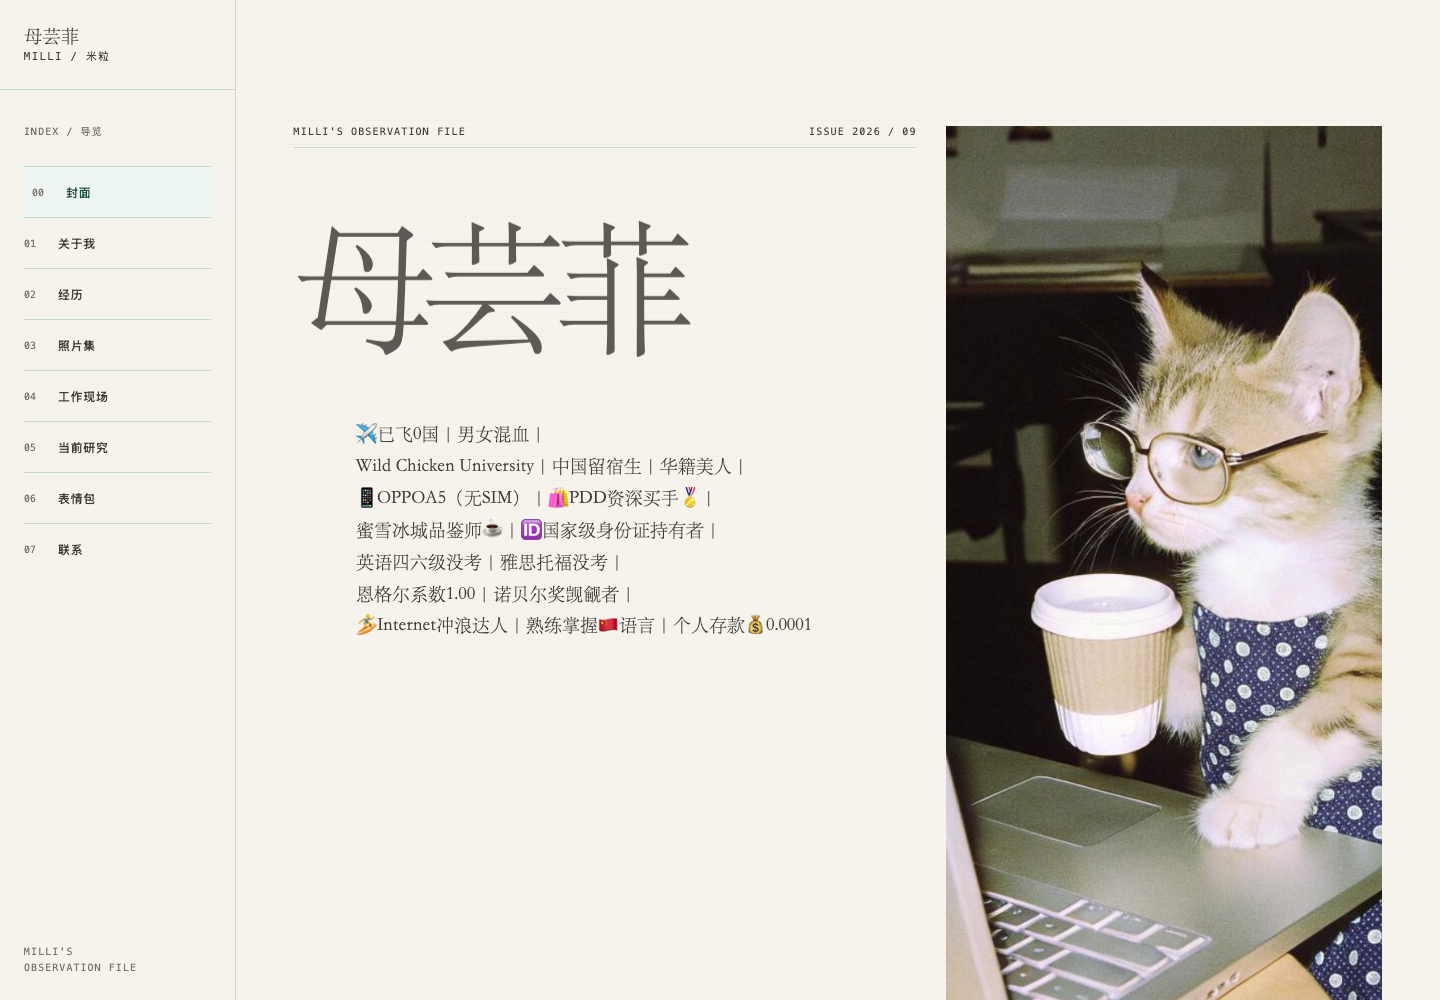
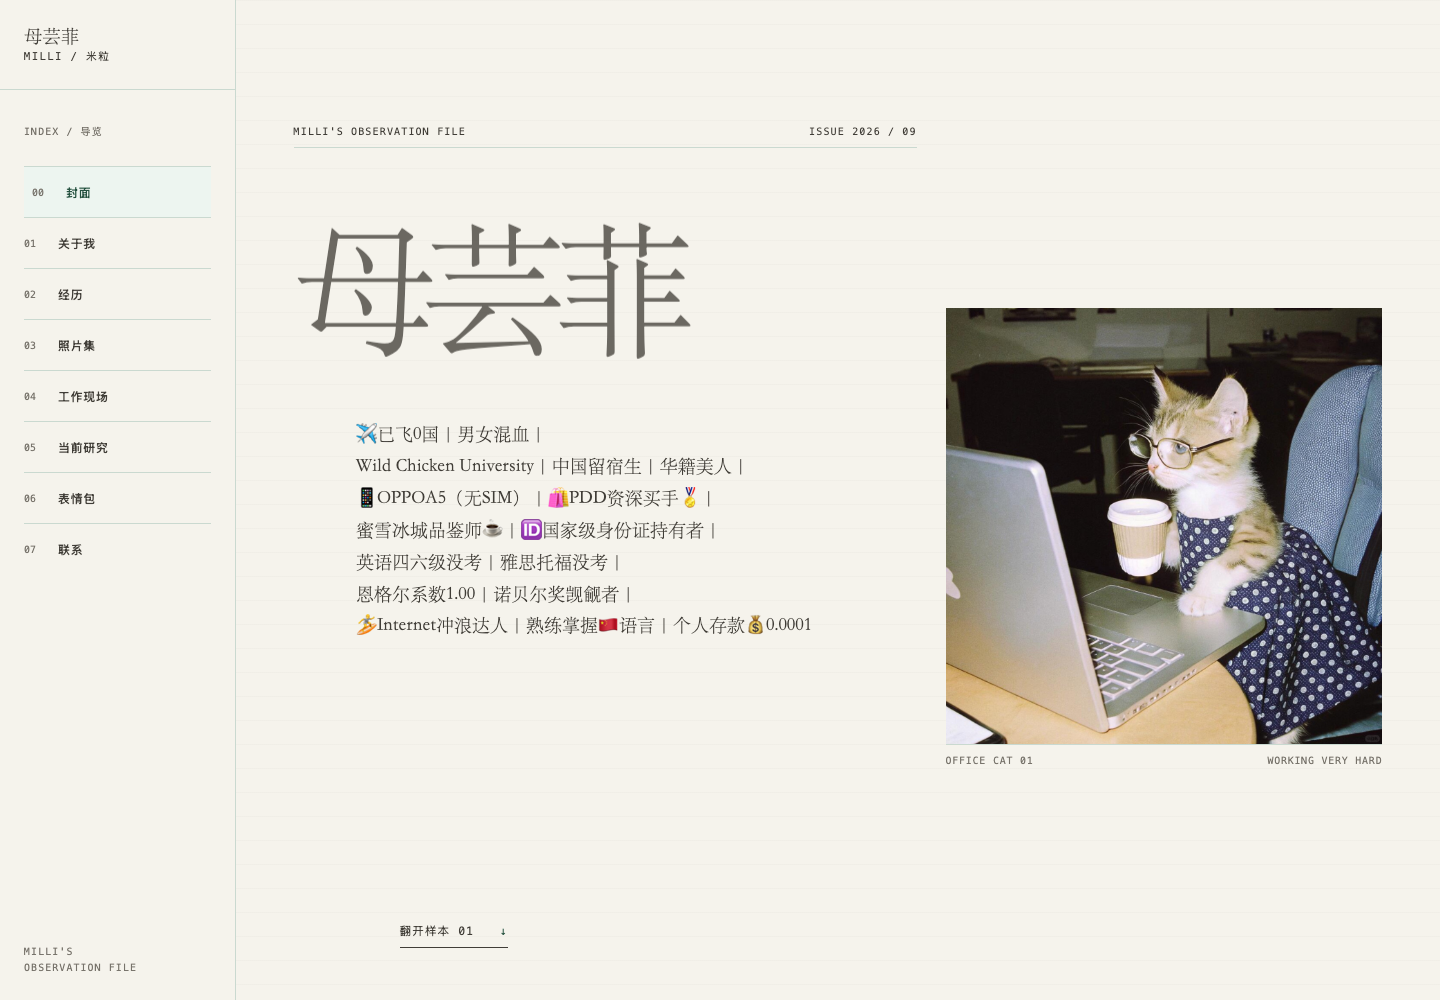
fix: adapt all pages to compact browser viewports

Changed region(s): [[0.6562, 0.124, 0.9688, 1.0], [0.2188, 0.217, 0.4688, 0.372], [0.2812, 0.93, 0.3125, 0.961]]

diff --git a/src/styles.css b/src/styles.css
@@ -71,6 +71,7 @@ img {
   display: block;
   width: 100%;
   max-width: 100%;
+  height: auto;
 }
 
 p {
@@ -1033,6 +1034,302 @@ p {
   to {
     opacity: 1;
     transform: translateY(0);
+  }
+}
+
+@media (min-width: 981px) and (max-width: 1180px) {
+  .site-header,
+  .section-nav {
+    width: 200px;
+  }
+
+  .site-pages {
+    margin-left: 200px;
+  }
+
+  .hero {
+    padding-right: 38px;
+    padding-left: 38px;
+  }
+
+  .page-section,
+  .meme-wall,
+  .contact {
+    padding-right: 44px;
+    padding-left: 44px;
+  }
+
+  .section-heading h2 {
+    font-size: clamp(3rem, 6vw, 5.5rem);
+  }
+}
+
+@media (min-width: 981px) and (max-height: 720px) {
+  .site-header {
+    height: 72px;
+  }
+
+  .section-nav {
+    top: 72px;
+    padding-top: 18px;
+    padding-bottom: 16px;
+  }
+
+  .section-nav ol {
+    margin: 14px 0;
+  }
+
+  .section-nav a {
+    min-height: 36px;
+  }
+
+  .nav-foot {
+    display: none;
+  }
+
+  .hero {
+    min-height: 100svh;
+    padding-top: 28px;
+    padding-bottom: 24px;
+  }
+
+  .publication-line {
+    margin-bottom: 22px;
+  }
+
+  .hero h1 .word {
+    font-size: clamp(4.2rem, 13vh, 6.5rem);
+  }
+
+  .latin-name {
+    margin-top: 10px;
+  }
+
+  .hero-abstract {
+    margin-top: 20px;
+    margin-bottom: 18px;
+    font-size: clamp(0.72rem, 1.5vh, 0.9rem);
+    line-height: 1.4;
+  }
+
+  .continue-link {
+    margin-top: 8px;
+  }
+
+  .hero-photo {
+    width: min(100%, 68vh);
+    justify-self: end;
+  }
+
+  .page-section,
+  .meme-wall,
+  .contact {
+    min-height: 100svh;
+    padding-top: 30px;
+    padding-bottom: 24px;
+  }
+
+  .section-heading {
+    padding-bottom: 16px;
+  }
+
+  .section-heading h2 {
+    font-size: clamp(2.8rem, 8.5vh, 4.8rem);
+  }
+
+  .profile-grid,
+  .timeline-list {
+    margin-top: 28px;
+  }
+
+  .profile-copy p {
+    margin-bottom: 12px;
+    font-size: 0.8rem;
+    line-height: 1.6;
+  }
+
+  .profile-copy .lead {
+    margin-bottom: 18px;
+    font-size: 1.65rem;
+  }
+
+  .profile-photo {
+    max-width: 250px;
+    justify-self: end;
+  }
+
+  .profile-photo img {
+    height: 220px;
+    object-fit: cover;
+  }
+
+  .profile-index {
+    display: none;
+  }
+
+  .timeline-list {
+    display: grid;
+    grid-template-columns: 1fr 1fr;
+    gap: 0 20px;
+  }
+
+  .timeline-list li {
+    grid-template-columns: 64px 1fr;
+    gap: 12px;
+    padding: 10px 0;
+  }
+
+  .timeline-story {
+    display: block;
+  }
+
+  .timeline-story h3 {
+    margin-bottom: 6px;
+    font-size: clamp(1.05rem, 3vh, 1.4rem);
+  }
+
+  .timeline-story p {
+    font-size: 0.64rem;
+    line-height: 1.4;
+  }
+
+  .timeline-story .impact {
+    margin-top: 5px;
+    padding-left: 8px;
+  }
+
+  .photography-intro {
+    margin: 18px 0 22px;
+  }
+
+  .photography-intro p {
+    font-size: 0.74rem;
+    line-height: 1.55;
+  }
+
+  .photo-grid {
+    gap: 16px;
+  }
+
+  .photo-trigger {
+    height: 18vh;
+    aspect-ratio: auto;
+  }
+
+  .photo-caption {
+    font-size: 0.52rem;
+  }
+
+  .work .section-heading {
+    margin-bottom: 22px;
+  }
+
+  .event-gallery .event-photo-main img,
+  .event-gallery figure:not(.event-photo-main) img {
+    height: 14vh;
+  }
+
+  .event-story figcaption {
+    display: none;
+  }
+
+  .event-copy {
+    margin-top: 18px;
+    padding-top: 14px;
+  }
+
+  .event-story h3,
+  .flow-story h3 {
+    margin: 6px 0 12px;
+    font-size: clamp(1.45rem, 4.5vh, 2.35rem);
+  }
+
+  .event-copy > p:last-child,
+  .flow-intro > p:last-child {
+    font-size: 0.72rem;
+    line-height: 1.5;
+  }
+
+  .flow-story {
+    margin-top: 18px;
+    padding-top: 12px;
+    column-gap: 40px;
+    row-gap: 6px;
+  }
+
+  .flow-list li {
+    min-height: 30px;
+  }
+
+  .flow-list p {
+    font-size: 0.82rem;
+  }
+
+  .flow-note {
+    margin-top: 0;
+    font-size: 0.6rem;
+  }
+
+  .research-grid {
+    margin-top: 30px;
+  }
+
+  .research-question {
+    font-size: clamp(2.5rem, 8vh, 4.6rem);
+  }
+
+  .topic-list li {
+    padding: 10px 0;
+  }
+
+  .meme-wall {
+    gap: 40px;
+  }
+
+  .meme-heading h2 {
+    font-size: clamp(2.5rem, 8vh, 4.4rem);
+  }
+
+  .meme-grid {
+    gap: 10px;
+  }
+
+  .meme-grid img {
+    max-height: 21vh;
+  }
+
+  .status-strip {
+    padding-top: 20px;
+  }
+
+  .status-strip li {
+    padding: 8px 0;
+    font-size: 1rem;
+  }
+
+  .contact-index {
+    margin-bottom: 24px;
+  }
+
+  .contact {
+    padding-bottom: 18px;
+  }
+
+  .contact h2 {
+    max-width: 900px;
+    font-size: clamp(2.8rem, 8.6vh, 5rem);
+  }
+
+  .contact-links {
+    margin-top: 26px;
+  }
+
+  .contact-qr {
+    max-width: 210px;
+  }
+
+  .contact footer {
+    display: none;
   }
 }
 

diff --git a/src/App.tsx b/src/App.tsx
@@ -1,4 +1,4 @@
-import { useEffect, useRef, useState } from 'react'
+import { useEffect, useLayoutEffect, useRef, useState } from 'react'
 import {
   complaintFlow,
   creatorTopics,
@@ -104,6 +104,10 @@ function App() {
     return () => window.removeEventListener('hashchange', onHashChange)
   }, [])
 
+  useLayoutEffect(() => {
+    window.scrollTo(0, 0)
+  }, [activePage])
+
   useEffect(() => {
     if (!menuOpen) return
     const onKeyDown = (event: KeyboardEvent) => {
@@ -117,7 +121,6 @@ function App() {
     setActivePage(id)
     setMenuOpen(false)
     window.history.replaceState(null, '', `#${target}`)
-    window.scrollTo({ top: 0, behavior: 'auto' })
   }
 
   return (
